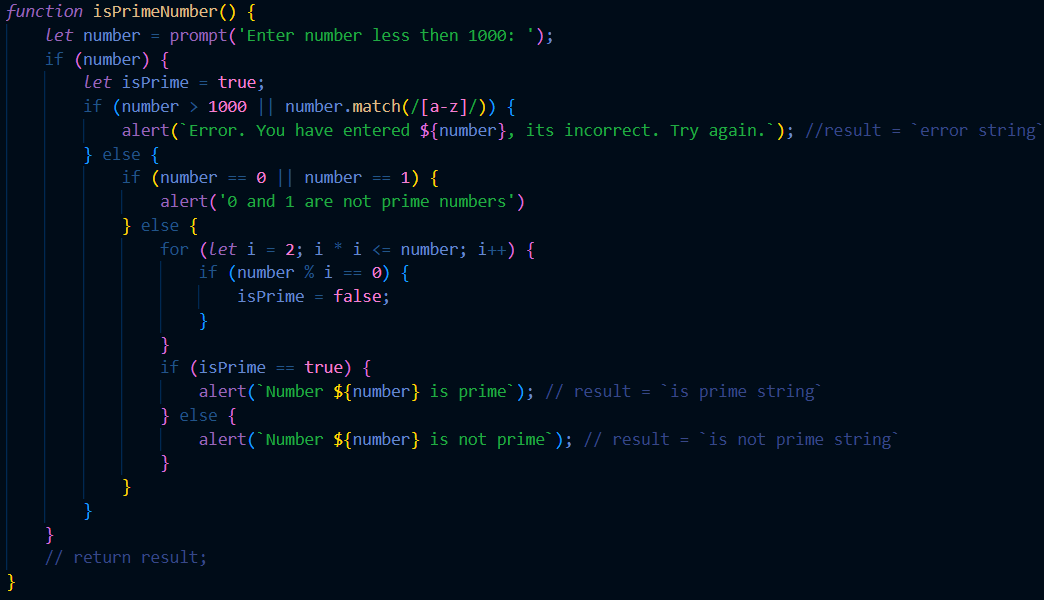
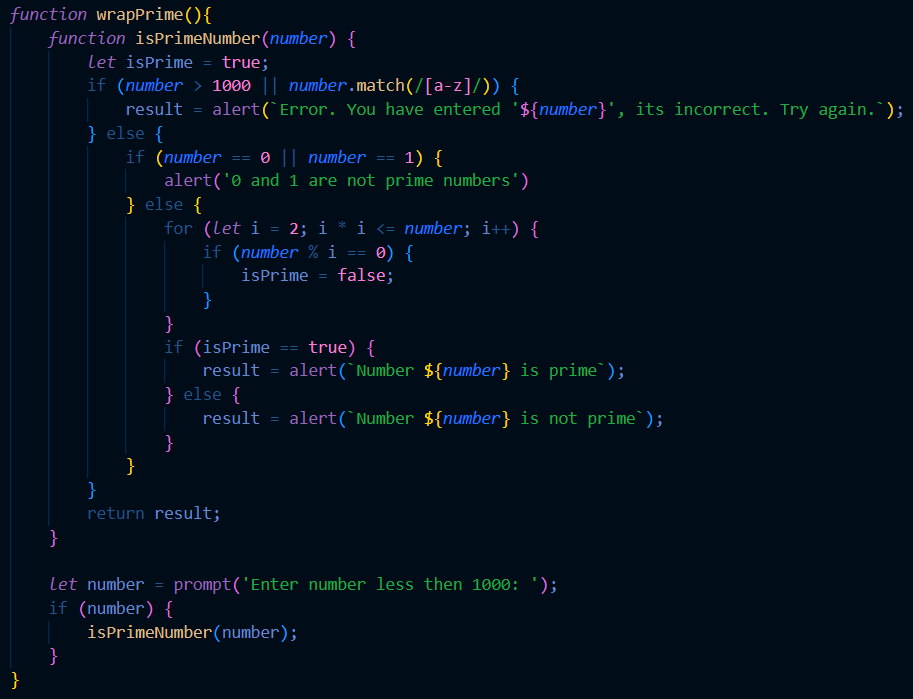
E3 finished + E4 started

diff --git a/Tasks/tasksE3.html b/Tasks/tasksE3.html
@@ -10,6 +10,7 @@
         <nav class="top">
             <a href="openMe.html" class="double-border-button">E2</a>
             <a href="tasksE3.html" class="double-border-button">E3</a>
+            <a href="tasksE4.html" class="double-border-button">E4</a>
             <div class="top-right"><a href="contacts.html" class="double-border-button">Contacts</a></div>
         </nav>
         <h1>My tasks collection for E module</h1>
@@ -44,7 +45,7 @@
                         Обратите внимание на числа 0 и 1.</h4>
                 </details></p>
                 <script src="tasksE3/task2.1.js"></script>
-                <input class="input-button" type="button" value="Enter number" onclick="isPrimeNumber()">
+                <input class="input-button" type="button" value="Enter number" onclick="wrapPrime()">
                 <details>
                     <summary>View code</summary>
                     <img class="code-img-bigger" src="images/tasksE3/t2.1.png">
@@ -52,38 +53,61 @@
             </li>
             <br>  
             <li>
-                <p>3</p>
-                <p><details>
-                    <summary></summary>
+                <p>First-class function</p>
+                <p><details class="task">
+                    <summary>Task</summary>
+                    <h4 class="text">Написать функцию, которая принимает число как аргумент и возвращает функцию,
+                         которая также принимает число как аргумент и возвращает сумму этих двух чисел. 
+                         Выведите в консоль результат.</h4>
                 </details></p>
-                <script></script>
-                <input class="input-button" type="button" value="3" onclick="">
+                <script src="tasksE3/task3.1.js"></script>
+                <input class="input-button" type="button" value="Enter numbers" onclick="wrapClass()">
                 <details>
-                    <summary></summary>
+                    <summary>View experimental code</summary>
+                    <img class="code-img-bigger" src="images/tasksE3/t3.1.png">
+                </details>
+                <details>
+                    <summary>View simple code</summary>
+                    <img class="code-img-smaller" src="images/tasksE3/t3.1.1.png">
                 </details>
             </li>
             <br>  
             <li>
-                <p>4</p>
-                <p><details>
-                    <summary></summary>
+                <p>Interval</p>
+                <p><details class="task">
+                    <summary>Task</summary>
+                    <h4 class="text">Напишите функцию, которая принимает два числа. 
+                        Каждую секунду необходимо выводить в консоль, начиная от первого и заканчивая вторым. 
+                        Используйте setInterval.
+                        Например, пользователь ввёл числа 5 и 15. Каждую секунду в консоль должно печататься число, 
+                        начиная с 5 и заканчивая 15 (всего 11 чисел: 5 6 7 8 9 10 11 12 13 14 15).</h4>
                 </details></p>
-                <script></script>
-                <input class="input-button" type="button" value="4" onclick="">
+                <script src="tasksE3/task4.1.js"></script>
+                <input class="input-button" type="button" value="Enter numbers" onclick="wrapInterval()">
                 <details>
-                    <summary></summary>
+                    <summary>View experimental code</summary>
+                    <img class="code-img-bigger" src="images/tasksE3/t4.1.png">
+                </details>
+                <details>
+                    <summary>View simple code</summary>
+                    <img class="code-img-smaller" src="images/tasksE3/t4.1.1.png">
                 </details>
             </li>
             <br>  
             <li>
-                <p>5</p>
-                <p><details>
-                    <summary></summary>
+                <p>Arrow function</p>
+                <p><details class="task">
+                    <summary>Task</summary>
+                    <h4 class="text">Напишите функцию, которая принимает два натуральных числа x и n и 
+                        возвращает x в степени n. Иначе говоря, умножает x на себя n раз и возвращает результат.
+                        Используйте Arrow Function синтаксис.
+                        Протестируйте функцию на любых значениях и выведите результат в консоль.</h4>
                 </details></p>
-                <script></script>
-                <input class="input-button" type="button" value="5" onclick="">
+                <script src="tasksE3/task5.1.js"></script>
+                <input class="input-button" type="button" value="Enter numbers" onclick="wrapArrow()">
                 <details>
-                    <summary></summary>
+                    <summary>View code</summary>
+                    <img class="code-img-bigger" src="images/tasksE3/t5.1.png">
                 </details>
             </li>            
         </ul>

diff --git a/Tasks/tasksE3/task2.1.js b/Tasks/tasksE3/task2.1.js
@@ -1,12 +1,11 @@
-function isPrimeNumber() {
-    let number = prompt('Enter number less then 1000: ');
-    if (number) {
+function wrapPrime(){
+    function isPrimeNumber(number) {
         let isPrime = true;
         if (number > 1000 || number.match(/[a-z]/)) {
-            alert(`Error. You have entered ${number}, its incorrect. Try again.`); //result = `error string`
+            result = alert(`Error. You have entered '${number}', its incorrect. Try again.`); 
         } else {
             if (number == 0 || number == 1) {
-                alert('0 and 1 are not prime numbers')
+                alert('0 and 1 are not prime numbers');
             } else {
                 for (let i = 2; i * i <= number; i++) {
                     if (number % i == 0) {
@@ -14,13 +13,18 @@ function isPrimeNumber() {
                     } 
                 }
                 if (isPrime == true) {
-                    alert(`Number ${number} is prime`); // result = `is prime string`
+                    result = alert(`Number ${number} is prime`); 
                 } else {
-                    alert(`Number ${number} is not prime`); // result = `is not prime string`
+                    result = alert(`Number ${number} is not prime`); 
                 }
             }
         }
+        return result;
     }
-    // return result;
+
+    let number = prompt('Enter number less then 1000: ');
+    if (number) {
+        isPrimeNumber(number);
+    }
 }
 

diff --git a/Tasks/tasksE3/task3.1.js b/Tasks/tasksE3/task3.1.js
@@ -1,0 +1,37 @@
+function wrapClass() {
+    function firstClassFunc(firstNumber) {
+        return function inFuncClass(secondNumber) {
+            return result = firstNumber + secondNumber;
+        }
+    }
+
+    let firstNum = prompt('Enter first number');
+    let secondNum = prompt('Enter second number');
+    let safeFirstNum = parseInt(firstNum);
+    let safeSecondNum = parseInt(secondNum);
+
+    if (firstNum && secondNum) {
+        if (firstNum.match(/[a-z]/) || secondNum.match(/[a-z]/)) {
+            alert(`Error. First value '${firstNum}' or second value '${secondNum}' is incorrect`);
+        } else {
+            const getFirst = firstClassFunc(safeFirstNum);
+            const sum = getFirst(safeSecondNum);
+            alert(`Sum is: ${sum}`);
+        }
+    } else {
+        alert('You didnt enter two numbers');
+    }
+}
+
+
+function firstClassFunc(firstNumber) {
+    return function inFuncClass(secondNumber) {
+        return result = firstNumber + secondNumber;
+    }
+};
+
+const getFirst = firstClassFunc(5);
+
+const sum = getFirst(4);
+
+console.log(sum);

diff --git a/Tasks/tasksE4.html b/Tasks/tasksE4.html
@@ -13,13 +13,8 @@
             <a href="tasksE4.html" class="double-border-button">E4</a>
             <div class="top-right"><a href="contacts.html" class="double-border-button">Contacts</a></div>
         </nav>
-        <h1>Here some links to contact me:</h1>
-        <ul>
-            <li><p><a class="double-border-button" href="https://github.com/ValeriyMarchenko" role="button" title="My github">Github</a> (also you can find it at the end of the page)</p></li>
-            <li><p>Discord: Kssew#7577</p></li>
-            <li><p>Battle.net: Hamster#22872</p></li>
-        </ul>
-        <footer class="smallfut">
+        <h1>My tasks collection for E module</h1>
+        <footer>
             <section>
                 <a href="https://github.com/ValeriyMarchenko" role="button" title="My github"><img src="images/github.png" alt="git" width="30" height="30"></a>
             </section>

diff --git a/Tasks/tasksE3/task4.1.js b/Tasks/tasksE3/task4.1.js
@@ -1,0 +1,27 @@
+function wrapInterval() {
+    function logNum(begin, end) {
+        let currrent = begin;
+        let intervalID = setInterval(function() {
+            alert(currrent);
+            if (currrent == end) {
+                clearInterval(intervalID);
+            }
+            currrent++;
+        }, 2500);
+    }
+
+    let firstNum = prompt('Enter first number');
+    let secondNum = prompt('Enter second number');
+    let safeFirstNum = parseInt(firstNum);
+    let safeSecondNum = parseInt(secondNum);
+
+    if ( firstNum && secondNum) {
+        if (firstNum.match(/[a-z]/) || secondNum.match(/[a-z]/)) {
+            alert(`Error. First value '${firstNum}' or second value '${secondNum}' is incorrect`);
+        } else {
+            logNum(safeFirstNum, safeSecondNum);
+        }
+    } else {
+        alert('You didnt enter two numbers');
+    }
+}

diff --git a/Tasks/tasksE3/task5.1.js b/Tasks/tasksE3/task5.1.js
@@ -1,0 +1,19 @@
+function wrapArrow() {
+    const arrowFunc = (x, n) => {alert(`${x} to ${n} is ${x ** n}`);}
+    
+    let firstNum = prompt('Enter first number');
+    let secondNum = prompt('Enter second number');
+    let safeFirstNum = parseInt(firstNum);
+    let safeSecondNum = parseInt(secondNum);
+
+    if (firstNum && secondNum) {
+        if (firstNum.match(/[a-z]/) || secondNum.match(/[a-z]/)) {
+            alert(`Error. First value '${firstNum}' or second value '${secondNum}' is incorrect`);
+        } else {
+            arrowFunc(safeFirstNum, safeSecondNum);
+        }
+    } else {
+        alert('You didnt enter two numbers');
+    }
+}
+

diff --git a/Tasks/openMe.html b/Tasks/openMe.html
@@ -10,6 +10,7 @@
         <nav class="top">
             <a href="openMe.html" class="double-border-button">E2</a>
             <a href="tasksE3.html" class="double-border-button">E3</a>
+            <a href="tasksE4.html" class="double-border-button">E4</a>
             <div class="top-right"><a href="contacts.html" class="double-border-button">Contacts</a></div>
         </nav>
         <h1>My tasks collection for E module</h1>
